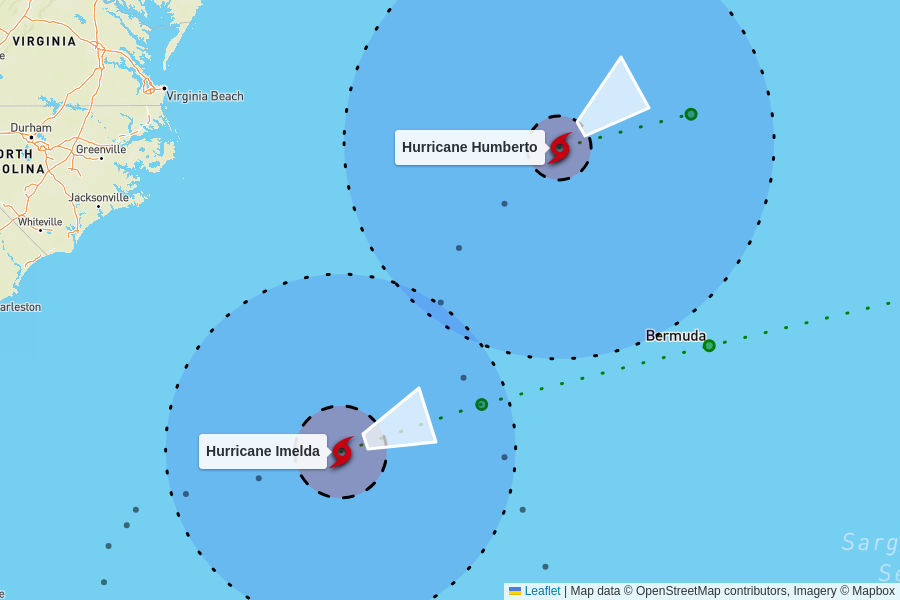
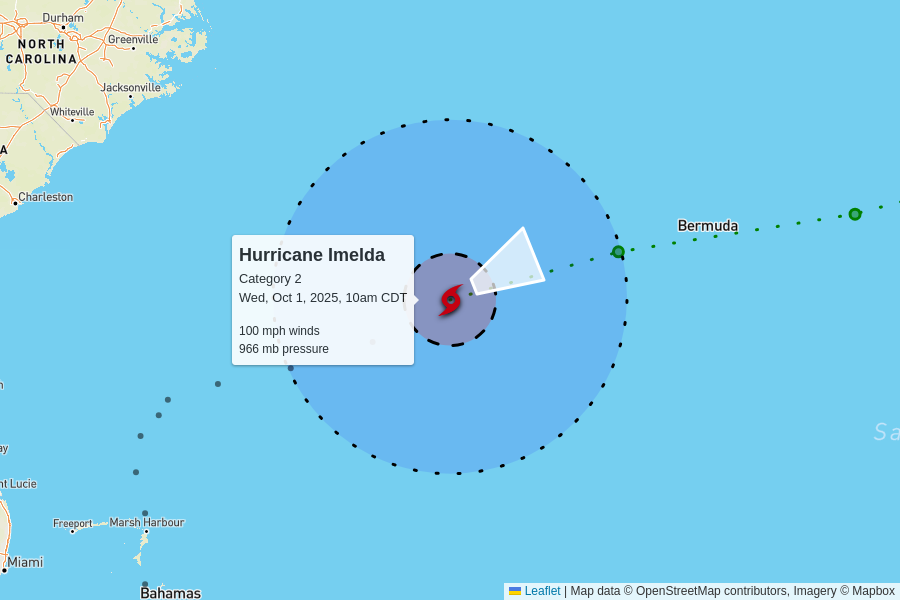
automatic update

diff --git a/docs/index.html b/docs/index.html
@@ -96,40 +96,16 @@
     </p>
 
     
-    <h2>2 active storms</h2>
-    <img src="active.png">
 
     <table>
       <tr>
-        <td colspan="6" class="storm category-1" >
-          <h2>
-            Hurricane Humberto - Category 1
-            <p class="updated">last updated <span data-time>2025-10-01T09:00:00.000Z</span></p>
+        <td colspan="6" class="storm " style="cursor:pointer;" onClick="toggle('AL082025')">
+          <h2>🏁 Humberto
           </h2>
         </td>
       </tr>
       
-      <tr>
-        <th class="spacer"></th>
-        <th>wind speed</th>
-        <th>central pressure</th>
-        <th>movement</th>
-        <th>data (CSV)</th>
-        <th>National Hurricane Center</th>
-      </tr>
-      <tr>
-        <td class="spacer"></td>
-        <td>80 mph<br>0 mph since last update</td>
-        <td>979 mb<br>0 mb since last update</td>
-        <td>
-          14 mph to the northeast
-          <br/>
-          <span style="display: inline-block; font-size: 1.5em; transform: rotate(55deg);">↑</span>
-        </td>
-        <td><a href="https://raw.githubusercontent.com/mgwalker/atlantic-hurricanes/main/data/csv/AL082025.csv">AL082025.csv</a></td>
-        <td><a href="https://www.nhc.noaa.gov/archive/2025/HUMBERTO.shtml?">NHC advisories</a></td>
-      </tr>
-      <tr id="storm_AL082025" >
+      <tr id="storm_AL082025" style="display:none;">
         <td class="spacer">
         <td colspan="5">
           <figure>
@@ -145,10 +121,10 @@
       
 
       <tr>
-        <td colspan="6" class="storm category-1" >
+        <td colspan="6" class="storm category-2" >
           <h2>
-            Hurricane Imelda - Category 1
-            <p class="updated">last updated <span data-time>2025-10-01T09:00:00.000Z</span></p>
+            Hurricane Imelda - Category 2
+            <p class="updated">last updated <span data-time>2025-10-01T15:00:00.000Z</span></p>
           </h2>
         </td>
       </tr>
@@ -163,12 +139,12 @@
       </tr>
       <tr>
         <td class="spacer"></td>
-        <td>90 mph<br>+5 mph since last update</td>
-        <td>974 mb<br>-3 mb since last update</td>
+        <td>100 mph<br>+10 mph since last update</td>
+        <td>966 mb<br>-8 mb since last update</td>
         <td>
           20 mph to the east-northeast
           <br/>
-          <span style="display: inline-block; font-size: 1.5em; transform: rotate(70deg);">↑</span>
+          <span style="display: inline-block; font-size: 1.5em; transform: rotate(65deg);">↑</span>
         </td>
         <td><a href="https://raw.githubusercontent.com/mgwalker/atlantic-hurricanes/main/data/csv/AL092025.csv">AL092025.csv</a></td>
         <td><a href="https://www.nhc.noaa.gov/archive/2025/IMELDA.shtml?">NHC advisories</a></td>
